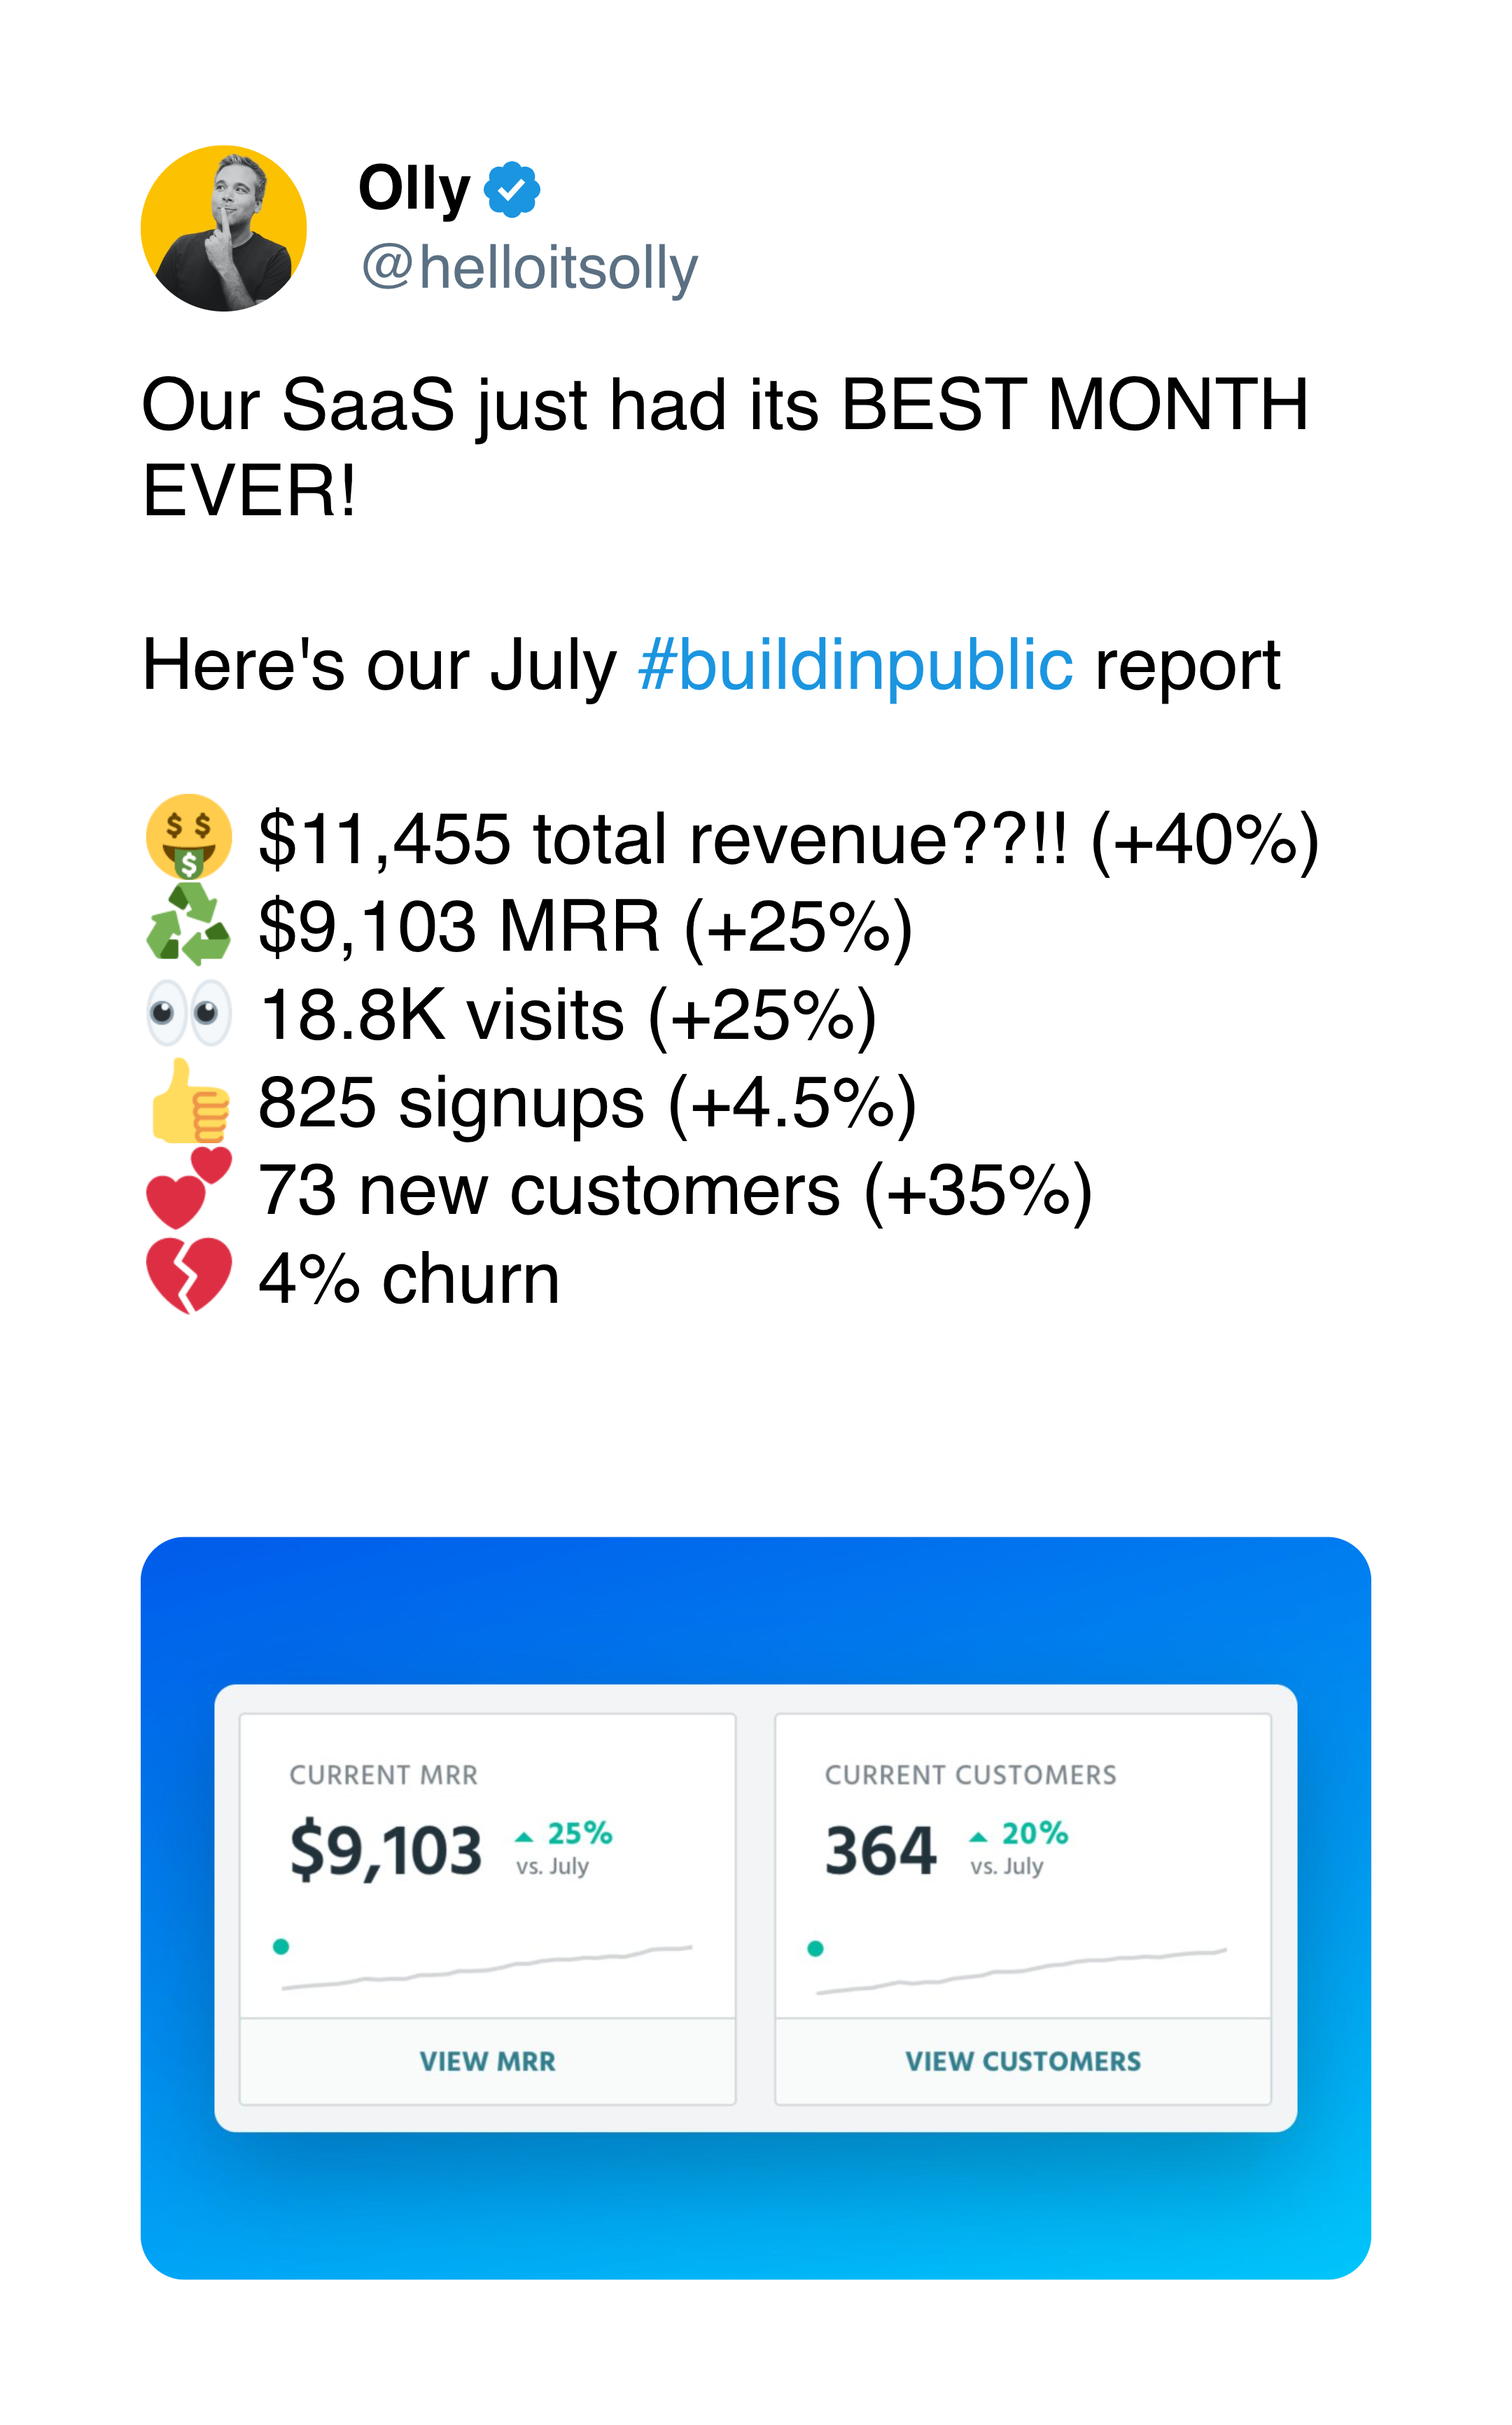
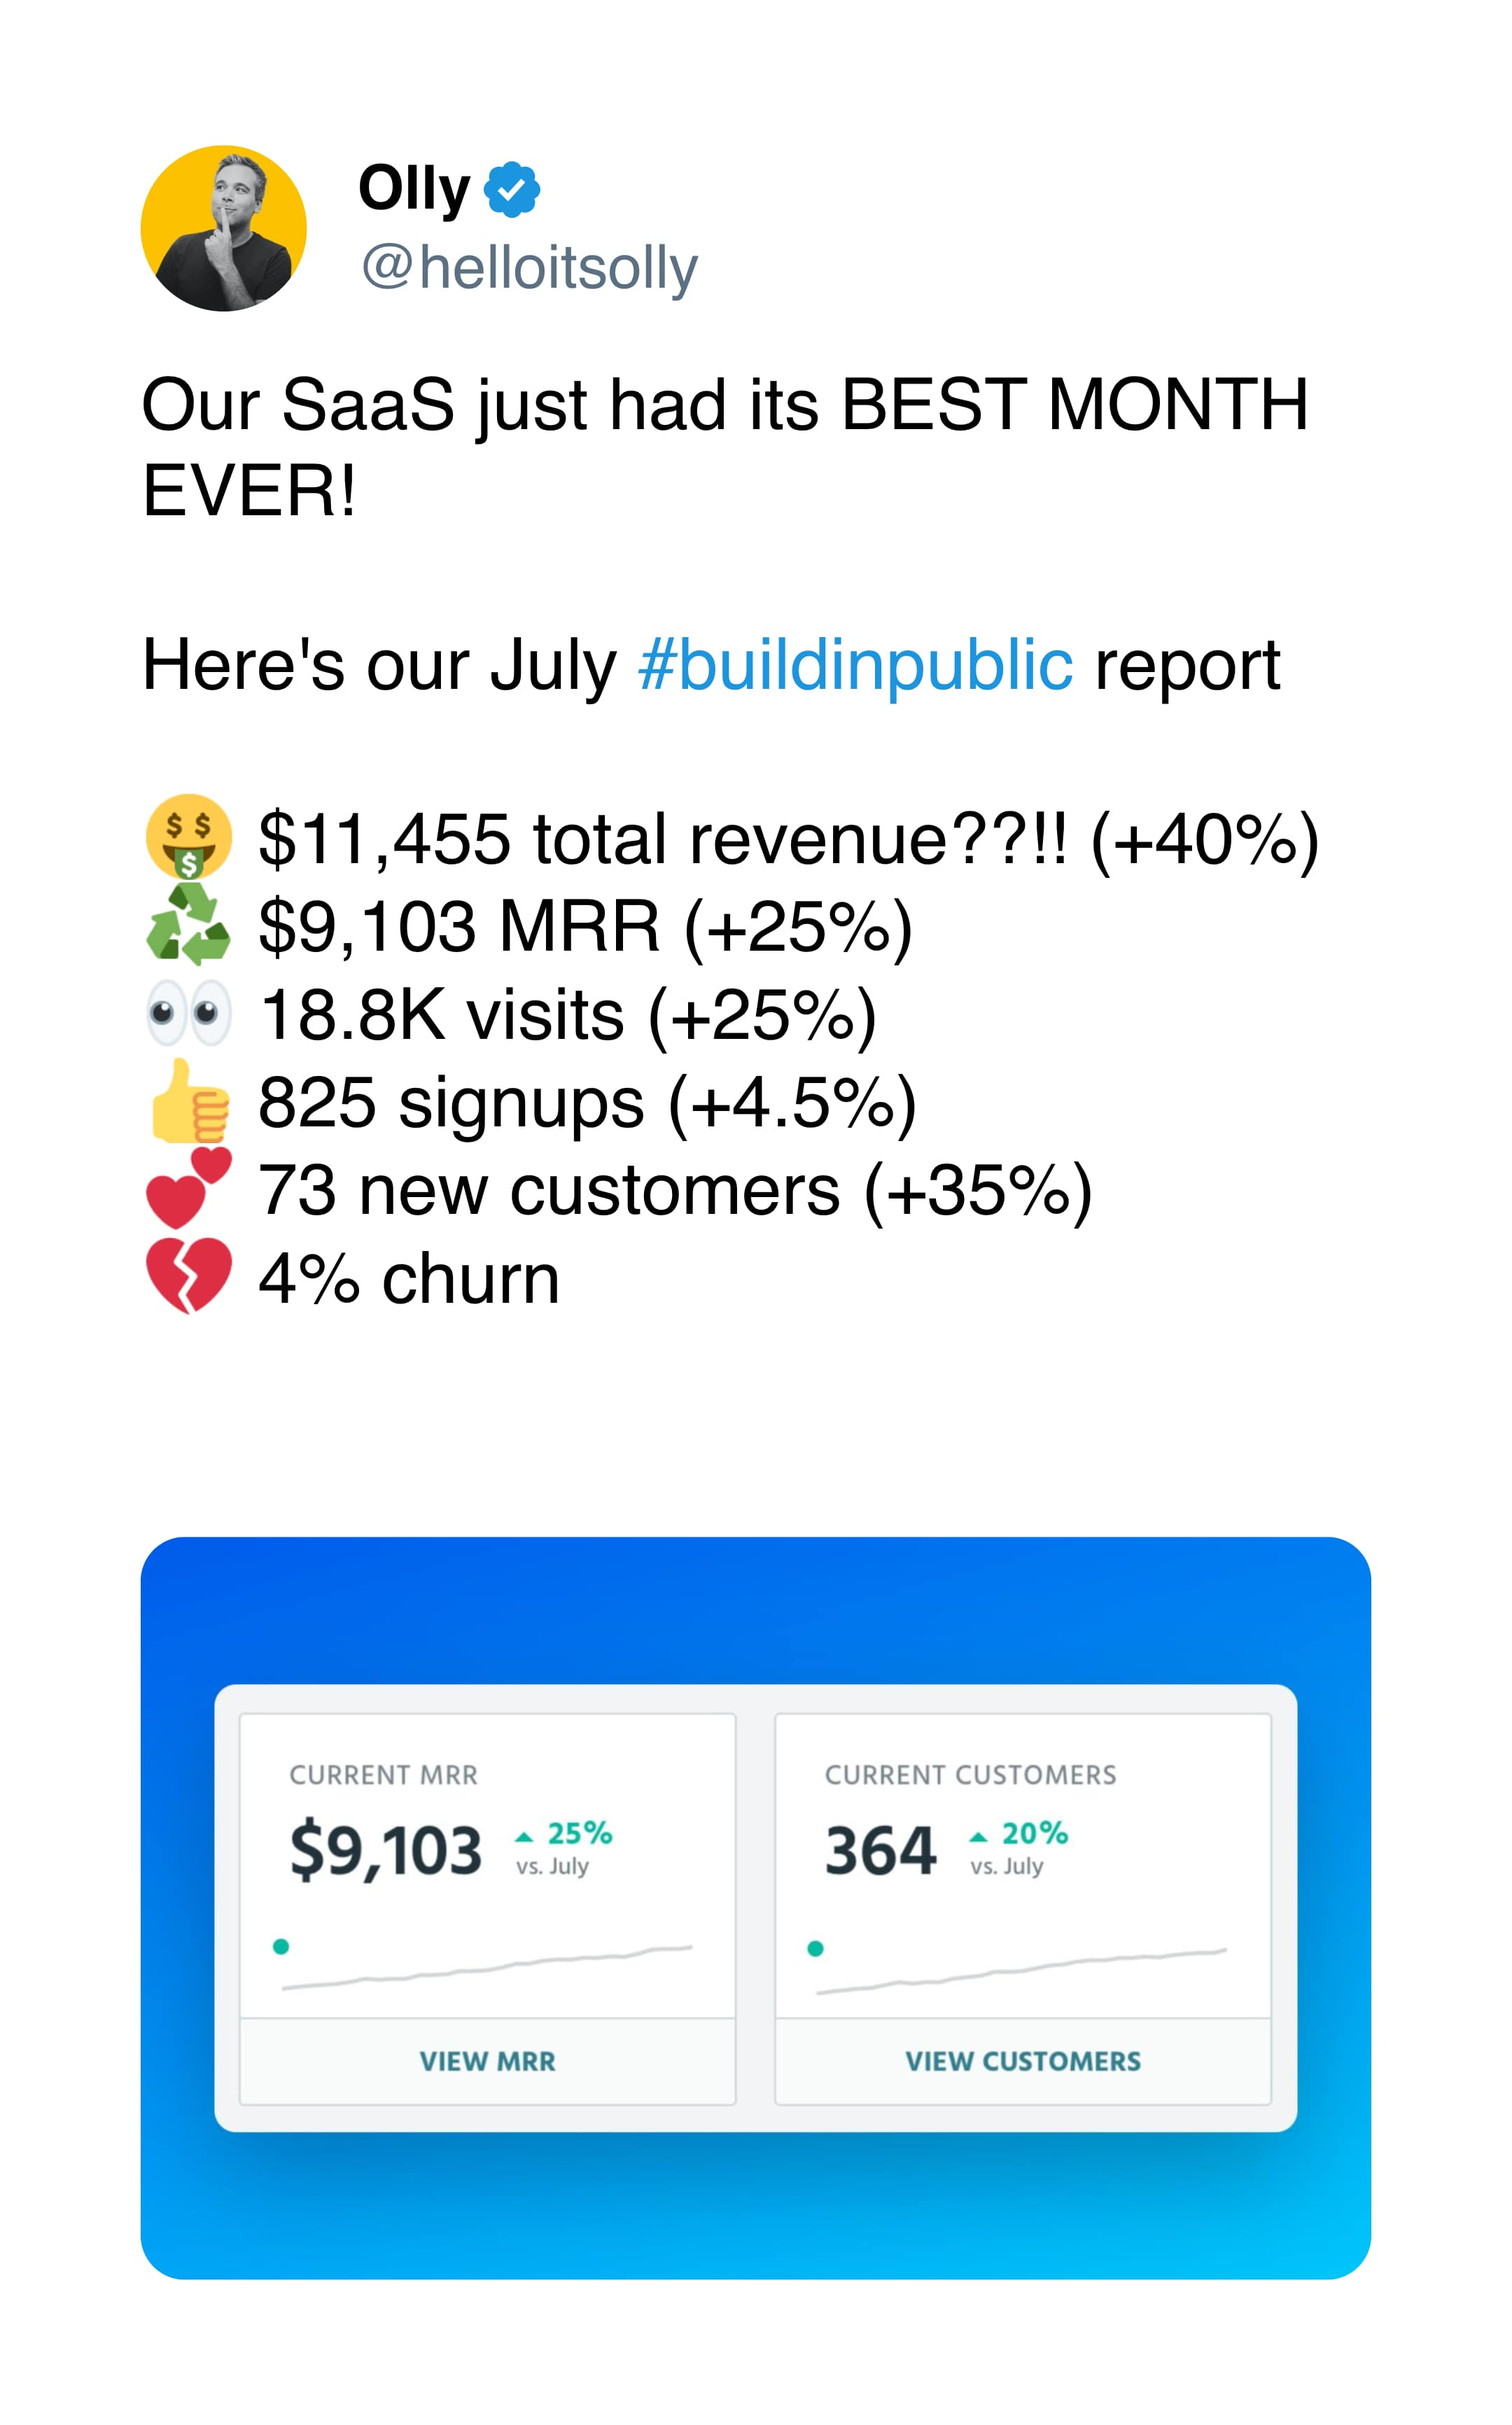
Compress images, add testimonials and submit buttons

diff --git a/src/app/page.tsx b/src/app/page.tsx
@@ -1,13 +1,20 @@
 "use client";
 
+import { Button } from "@/components/ui/button";
 import { chunks } from "@/lib/utils";
 import Image from "next/image";
 import Link from "next/link";
-import React from "react";
+import React, { useMemo } from "react";
 
 interface Tweet {
     imageUrl: string;
     url: string;
+}
+
+interface Testimonial {
+    title: string;
+    text: string;
+    author: string;
 }
 
 function RenderTweet({ tweet: { imageUrl, url } }: { tweet: Tweet }) {
@@ -23,6 +30,85 @@ function RenderTweet({ tweet: { imageUrl, url } }: { tweet: Tweet }) {
             <Link href={url} target="_blank">
                 <span className="absolute inset-0"></span>
             </Link>
+        </div>
+    );
+}
+
+function RenderPornDefinition() {
+    return (
+        <div className="relative font-serif h-auto max-w-full border-solid border-[1px] border-slate-200 rounded-lg shadow-lg shadow-slate-300 p-5 flex flex-col bg-slate-700 text-white">
+            <div className="text-3xl">
+                <b>P</b>orn
+            </div>
+            <div className="text-xl mt-5">
+                <p>
+                    If you are angry at me or think that porn is a bad word. I
+                    have bad news for you. Porn is not defined by how you expect
+                    it to be defined:
+                </p>
+                <p className="mt-5 italic">
+                    &quot;Porn is denoting written or visual material that
+                    emphasizes the sensuous or sensational aspects of a
+                    non-sexual subject, appealing to its audience in a manner
+                    likened to the titillating effect of pornography.&quot;
+                </p>
+                <p className="mt-5 text-sm">
+                    <Link
+                        href="https://doi.org/10.1093/OED/6367306340"
+                        target="_blank"
+                        className="underline hover:no-underline"
+                    >
+                        Oxford English Dictionary, Oxford University Press, July
+                        2023
+                        <span className="absolute inset-0"></span>
+                    </Link>
+                </p>
+            </div>
+        </div>
+    );
+}
+
+function About() {
+    return (
+        <div className="relative font-serif h-auto max-w-full border-solid border-[1px] border-slate-200 rounded-lg shadow-lg shadow-slate-300 p-5 flex flex-col text-slate-700">
+            <div className="text-xl">
+                <div className="text-3xl">
+                    <b>L</b>ove
+                </div>
+                <p className="mt-5">
+                    Hi, I am{" "}
+                    <Link
+                        className="underline hover:no-underline"
+                        href="https://twitter.com/DmytroKrasun"
+                    >
+                        Dmytro Krasun
+                    </Link>
+                    , the maker behind MRRPorn. If I make you smile for a
+                    second, I am happy.
+                </p>
+                <p className="mt-5">
+                    For days and nights, I am building serious, and some call
+                    them &quot;boring&quot; businesses. But some days, an artist
+                    who is a comedian (?) speaks inside me. Today, I decided to
+                    unleash that artist.
+                </p>
+                <p className="mt-5">
+                    And as a result, you see this project. If you like it, share
+                    it with your friends or{" "}
+                    <Link
+                        className="underline hover:no-underline"
+                        href="https://twitter.com/DmytroKrasun"
+                    >
+                        upvote on Product Hunt
+                    </Link>
+                    .
+                </p>
+                <p className="mt-5">
+                    I don&apos;t plan to make any money from it. I am healing my
+                    heart by producing &quot;art&quot;, or &quot;jokes&quot;.
+                </p>
+                <p className="mt-5">And have a nice day.</p>
+            </div>
         </div>
     );
 }
@@ -67,8 +153,32 @@ export default function Home() {
         },
     ];
 
-    const items = tweets.map((t) => <RenderTweet key={t.url} tweet={t} />);
-    const groups = chunks(items, 3);
+    const testimonials: Testimonial[] = [
+        {
+            title: "To inspire",
+            text: "I am a simple folk. I don't want to brag or show how cool I am. I just want to inspire others. It also helps to grow a following on Twitter.",
+            author: "Anonymous",
+        },
+        {
+            title: "Works like a charm",
+            text: "Sharing MRR screenshots has worked great for my business. I shared a screenshot of my first sale, and then it attracted more attention. And I made more sales.",
+            author: "Anonymous",
+        },
+        {
+            title: "Cheap engagement trick",
+            text: "Every time I feel that my engagements on X (Twitter) drop, I post MRR screenshots. It gives me peace of mind and validation that people still care about me.",
+            author: "Dmytro K.",
+        },
+    ];
+
+    const items = useMemo(() => {
+        const items = tweets.map((t) => <RenderTweet key={t.url} tweet={t} />);
+        items.splice(1, 0, <RenderPornDefinition key="porn-definition" />);
+        items.splice(8, 0, <About key="about" />);
+        return items;
+    }, [tweets]);
+
+    const blocks = chunks(chunks(items, 4), 3);
 
     return (
         <main>
@@ -85,14 +195,57 @@ export default function Home() {
                     inspired now.
                 </h2>
             </div>
-            <div className="mt-20 container mx-auto grid grid-cols-1 md:grid-cols-3 gap-5">
-                {groups.map((items, g) => (
-                    <div key={g} className="grid gap-5">
-                        {items.map((i) => i)}
+            <div className="mt-20 container mx-auto">
+                {blocks.map((groups, b) => (
+                    <div
+                        key={b}
+                        className="mb-5 grid grid-cols-1 md:grid-cols-3 gap-5"
+                    >
+                        {groups.map((items, g) => (
+                            <div key={g} className="grid gap-5">
+                                {items.map((i) => i)}
+                            </div>
+                        ))}
                     </div>
                 ))}
             </div>
-            <div className="my-20 flex px-20">
+            <div className="my-40">
+                <div className="text-6xl font-bold tracking-tighter text-center">
+                    Confessions
+                </div>
+                <div className="mt-20 container mx-auto grid grid-cols-1 md:grid-cols-3 gap-5">
+                    {testimonials.map((t) => (
+                        <div className="relative font-serif h-auto max-w-full border-solid border-[1px] border-slate-200 rounded-lg shadow-lg shadow-slate-300 p-5 flex flex-col bg-slate-700 text-white">
+                            <div className="text-3xl">{t.title}</div>
+                            <div className="text-xl mt-2">
+                                <p className="mt-5 italic">
+                                    &quot;{t.text}&quot;
+                                </p>
+                                <p className="mt-5 text-sm">{t.author}</p>
+                            </div>
+                        </div>
+                    ))}
+                </div>
+                <div></div>
+            </div>
+            <div className="mt-20">
+                <div className="text-6xl font-bold tracking-tighter text-center">
+                    Now, it is your turn.
+                </div>
+                <div className="mt-5 text-3xl text-muted-foreground text-center">
+                    Boost your marketing.
+                </div>
+                <div className="mt-20 text-center">
+                    <Link
+                        href="https://twitter.com/intent/tweet?text=Friends%2C%20I%20want%20to%20share%20with%20you%20my%20MRR%20update%3A%20%0A%0A%3Cpaste%20your%20number%20here%20and%20upload%20a%20screenshot%3E%0A%0A"
+                        target="_blank"
+                        className="text-white bg-gradient-to-br from-purple-600 to-blue-500 hover:bg-gradient-to-bl focus:ring-4 focus:outline-none focus:ring-blue-300 dark:focus:ring-blue-800 font-medium rounded-lg px-10 py-5 text-center mr-2 mb-2 text-2xl"
+                    >
+                        Show off your MRR now. It is free.
+                    </Link>
+                </div>
+            </div>
+            <div className="my-40 flex px-10">
                 <div className="mx-auto">
                     The project is made by{" "}
                     <Link

diff --git a/src/components/ui/button.tsx b/src/components/ui/button.tsx
@@ -1,0 +1,56 @@
+import * as React from "react"
+import { Slot } from "@radix-ui/react-slot"
+import { cva, type VariantProps } from "class-variance-authority"
+
+import { cn } from "@/lib/utils"
+
+const buttonVariants = cva(
+  "inline-flex items-center justify-center rounded-md text-sm font-medium ring-offset-background transition-colors focus-visible:outline-none focus-visible:ring-2 focus-visible:ring-ring focus-visible:ring-offset-2 disabled:pointer-events-none disabled:opacity-50",
+  {
+    variants: {
+      variant: {
+        default: "bg-primary text-primary-foreground hover:bg-primary/90",
+        destructive:
+          "bg-destructive text-destructive-foreground hover:bg-destructive/90",
+        outline:
+          "border border-input bg-background hover:bg-accent hover:text-accent-foreground",
+        secondary:
+          "bg-secondary text-secondary-foreground hover:bg-secondary/80",
+        ghost: "hover:bg-accent hover:text-accent-foreground",
+        link: "text-primary underline-offset-4 hover:underline",
+      },
+      size: {
+        default: "h-10 px-4 py-2",
+        sm: "h-9 rounded-md px-3",
+        lg: "h-11 rounded-md px-8",
+        icon: "h-10 w-10",
+      },
+    },
+    defaultVariants: {
+      variant: "default",
+      size: "default",
+    },
+  }
+)
+
+export interface ButtonProps
+  extends React.ButtonHTMLAttributes<HTMLButtonElement>,
+    VariantProps<typeof buttonVariants> {
+  asChild?: boolean
+}
+
+const Button = React.forwardRef<HTMLButtonElement, ButtonProps>(
+  ({ className, variant, size, asChild = false, ...props }, ref) => {
+    const Comp = asChild ? Slot : "button"
+    return (
+      <Comp
+        className={cn(buttonVariants({ variant, size, className }))}
+        ref={ref}
+        {...props}
+      />
+    )
+  }
+)
+Button.displayName = "Button"
+
+export { Button, buttonVariants }
